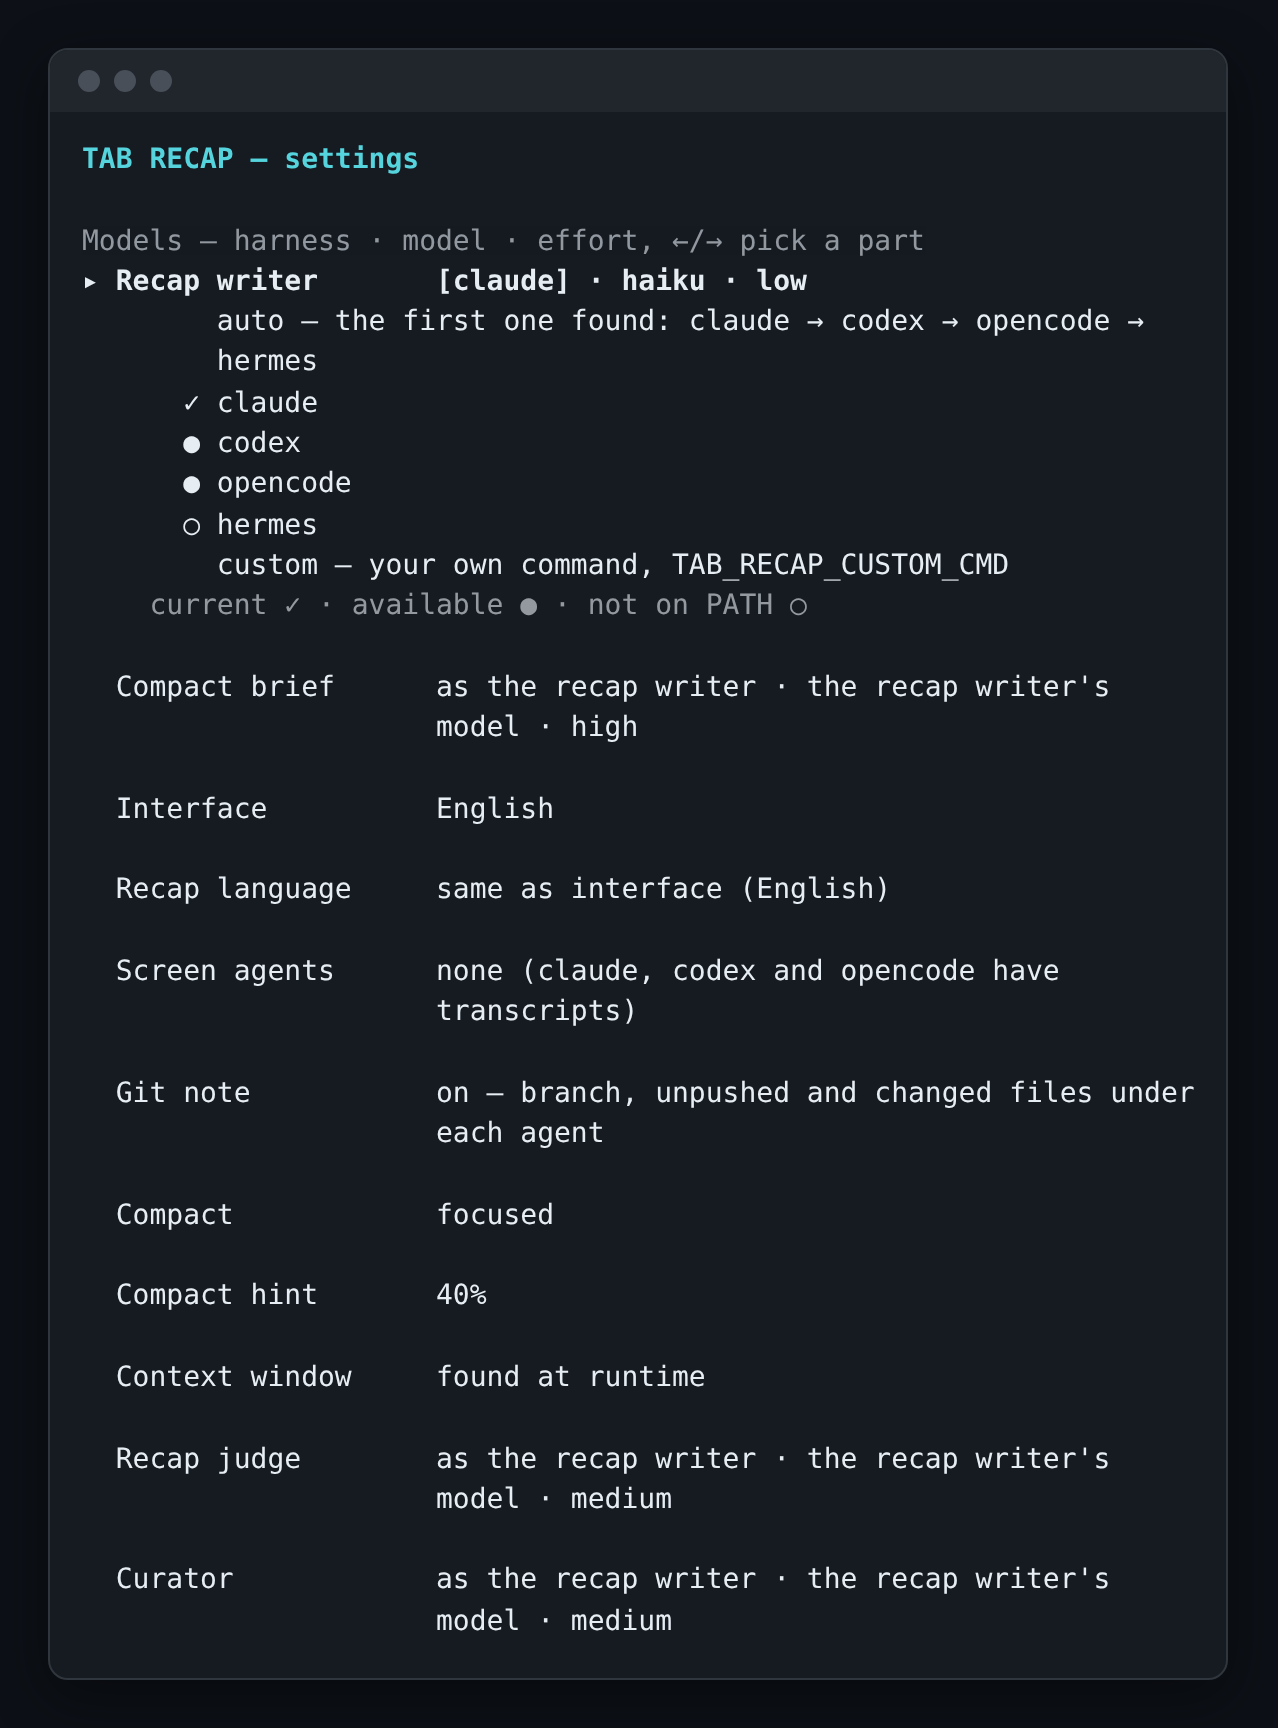
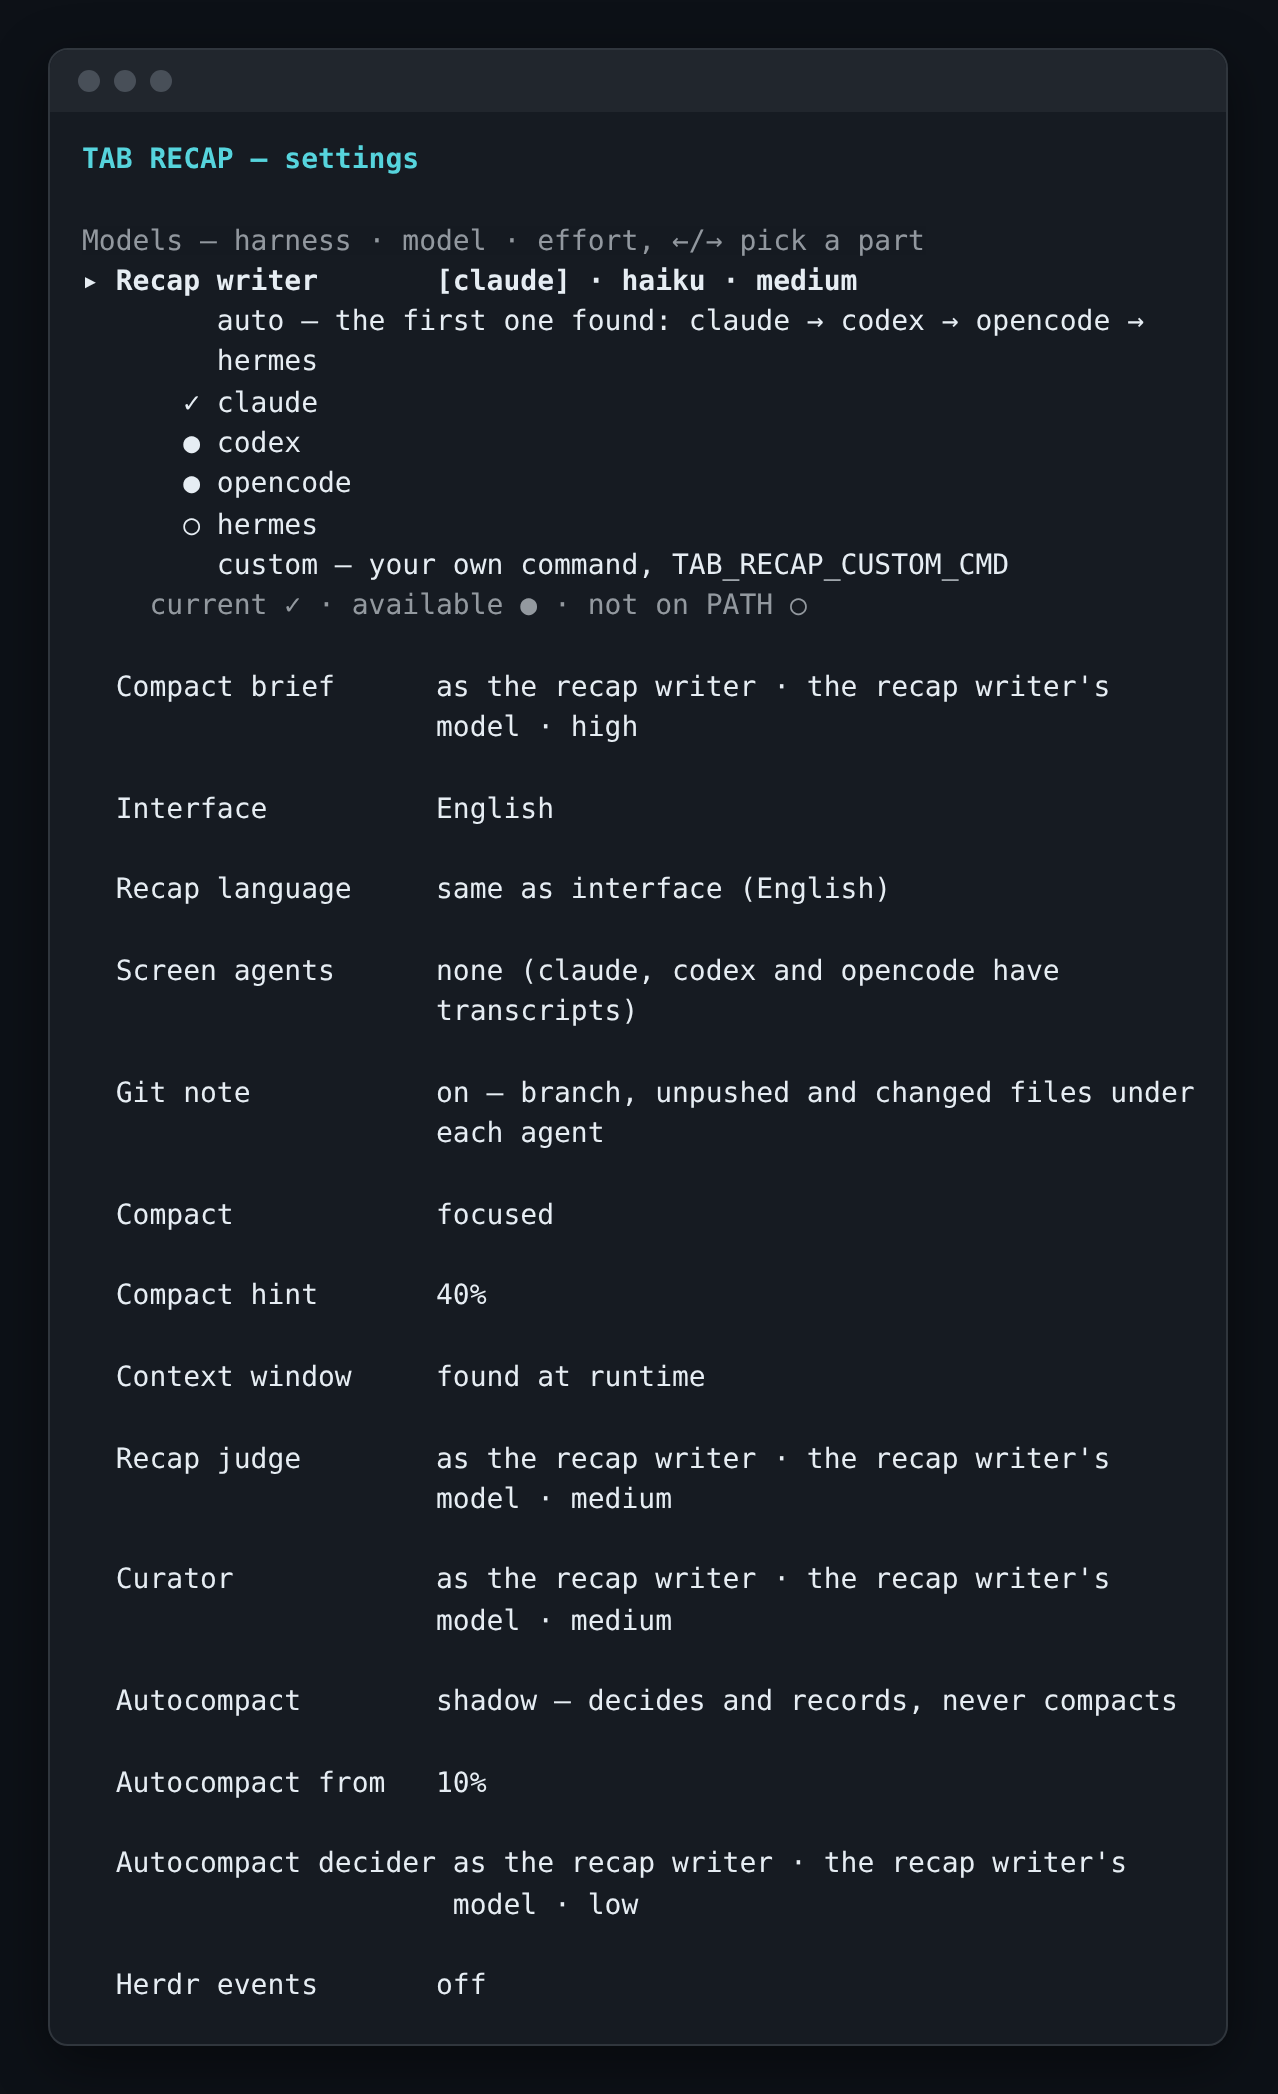
tab-recap: document the herdr token limits and race; refresh the setup screenshots
The For other tools section states the id and tool limits, the failed-bad-id answer, the lease's race limit and fail-open, and what turning the setting off clears. The spec puts lane-closed on the workspace. The setup screenshots show the Herdr events row.

diff --git a/tab-recap/CONTEXT.md b/tab-recap/CONTEXT.md
@@ -79,7 +79,7 @@ identifier, so a new name either uses this vocabulary or adds to it here first.
 | **Origin** | Who started a compaction: `operator`, `auto` or `request` (another tool's `compact-req-<tool>`; `compaction.origin`). Shown as `(auto)` in the toast. | the boundary's **trigger** |
 | **Setup modal** | The settings popup (`tab-recap.configure`): rows for the agent (harness or `auto`), its model, the interface language, the recap language and the agents read from their screen; `t` tests the selected agent with one tiny real request, `s` saves to `config.env`. A row an environment variable overrides is read-only and names the variable. Opening it while herdr shows another modal fails with `ui_busy`; the command then prints the CLI equivalent. | the recap modal (`show`) |
 | **Hidden** | A tab whose column the operator turned off (`tab-recap.column`, or `h` in the column). It is closed, not reopened, and never counts against the reopen budget; its recaps keep being written. `tab-recap.columns` hides every tab at once; showing one tab again under that blanket exempts it. Remembered in the store (`ColumnVisibility`) and restored at daemon start. | closed by the operator's mouse (that is *given up*) |
-| **Extension** | An optional add-on registered in `src/extensions/index.ts` (`FACTORIES`; the built-in git note is the only entry by default). It may contribute notes, a warning and upkeep; the plugin works with none. Built once when a process starts; it reads its own settings through the config getter at call time, so a value edit applies without a restart, but enabling or disabling one takes a restart. | a plugin; a backend |
+| **Extension** | An optional add-on registered in `src/extensions/index.ts` (`FACTORIES`; the built-in git note and the other tools' notes are the entries by default). It may contribute notes, a warning and upkeep; the plugin works with none. Built once when a process starts; it reads its own settings through the config getter at call time, so a value edit applies without a restart, but enabling or disabling one takes a restart. | a plugin; a backend |
 | **Note** | One labelled line-group an extension attaches to a lane; the column shows it under the lane's header (`⚑ label 2m ago · detail · detail`). It may carry its own **mark** (the glyph before the label, `⚑` when it names none). An extension's `notes()` may receive the tab's lanes and the locale. | a notification we send |
 | **Repo** | Which git repository (top-level directory) and branch a lane's working directory belongs to, asked from git by the `LaneRepo` port: a repo (the branch is null on a detached HEAD), no repo, or unknown. Read-only (no optional locks, no fsmonitor), answered asynchronously and cached for a few seconds per directory. | the lane's cwd itself |
 | **Web context** | Where a lane's repository lives on the web: the `origin` remote turned into `https://host/group/repo` (`git@host:g/r.git` and `ssh://git@host:2222/g/r.git` → https, `.git` dropped, **credentials never stored or drawn**), the forge (`github` for github.com, `gitlab` for any other host) and the lane's branch (null on a detached HEAD). Asked of git by the daemon only (`LaneRepo`, cached with the repo; the column never runs git), kept in the lane's row (migration 2) and published with the tab view as `TabLane.web` (null without an `origin`). A task has one web context when its lanes that know theirs agree on the repository; otherwise none, and only full URLs link. | the lane's cwd; a link |
@@ -92,6 +92,7 @@ identifier, so a new name either uses this vocabulary or adds to it here first.
 | **Token owner** | The one writer of a token name, and the writer's name is in it: `tab-recap-*` and `typing-tab-recap` are tab-recap's; `compact-req-<tool>`, `typing-<tool>`, `awaiting-<tool>` and `note-<tool>` belong to `<tool>`. herdr merges every source into one flat map per pane, so the name is the only protection: tab-recap never writes or clears a name it does not own. | a herdr `source` (herdr does not keep writers apart) |
 | **Compaction request** | A `compact-req-<tool>` token written by another tool on a lane's pane, valued `<id>` or `<id>:<note>`. tab-recap queues it with origin `request` and answers in `tab-recap-compact` = `<id>:<stage>` (`queued`, `running`, `done`, `failed-<reason>`, `failed-not-a-lane`); each id is acted on once. | a command; a typed line |
 | **Typing lease** | `typing-<tool>` = an epoch stamp, held by whoever types into a pane while it types (tab-recap's is `typing-tab-recap`, time to live 60 s). A lease that is earlier than tab-recap's, and still live, defers tab-recap's brief. | a lock on the pane; a process |
+| **Ask (another tool's)** | A compaction request from another tool, `compact-req-<tool>`, identified by its (tool, id). Kept in the `compact_ask` table (migration 13) so an id is acted on once, across restarts. | an operator's request (the `request` queue); the ask-back of a run |
 | **Note (from another tool)** | A `note` or `note-<tool>` token on a lane's pane, shown under the lane's header, labelled with the tool's name (or `note`). Read only: tab-recap never writes one. | a recap note; a fact |
 | **Protocol version** | `tab-recap-api` (`1`): the version of the pane tokens above. A breaking change to a token's name or value format raises it; a tool that finds no `tab-recap-api` on a pane reads it as “not offered”. | the plugin's version |
 | **Story** | The curator's "session so far" paragraph of a task (at most 120 words, shown at the top of the expanded view with its time): `task.story_text` and `task.story_at` (the time its curator run began), written in the same transaction as the curator's merges. | the recap; a section |

diff --git a/tab-recap/README.md b/tab-recap/README.md
@@ -492,16 +492,22 @@ off unless `TAB_RECAP_HERDR_EVENTS=on`; with it off, nothing below is written an
 | `tab-recap-recap` | epoch ms of the tab's last recap | when a recap is written |
 | `tab-recap-needs` | the number of open needs of the tab | when it changes |
 | `tab-recap-compact` | `<id>:<stage>`, the answer to a request | as the compaction goes |
-| `tab-recap-event` | `<seq>:<kind>[:<detail>]`, one event | for each event of the lane |
+| `tab-recap-event` | `<seq>:<kind>[:<detail>]`, one event | for each event of the lane (`lane-closed` goes to the workspace) |
 | `typing-tab-recap` | epoch ms of tab-recap's typing lease | while it types into the pane, whatever the setting |
 
 Lane tokens live two minutes and are rewritten when they change or half their life has passed; an answer or an event lives an hour;
-the lease lives a minute. A lane that leaves the board has its lane tokens cleared.
+the lease lives a minute. A lane that leaves the board has its lane tokens cleared. Turning the setting off clears `tab-recap-event` on
+every pane and workspace that carried one, and the lane tokens on every lane.
 
 **Requests another tool may write** on a lane's pane: `compact-req-<tool>` = `<id>` or `<id>:<note>` (the note is the focus of the
 brief, cut to fit). tab-recap answers in `tab-recap-compact`: `<id>:queued`, then `running`, then `done` or `failed-<reason>`;
 `failed-not-a-lane` when the pane is not a lane; `failed-interrupted` when a restart stopped it. Each id is acted on once, also across
-restarts: the same id written again asks for nothing.
+restarts: the same id written again asks for nothing. A request seen while the setting is off is remembered and never acted on, even
+after it goes on. A request a restart interrupts while the setting is on is answered `failed-interrupted`; one interrupted while it is
+off is not answered.
+
+**Limits.** An id is 1 to 16 characters; `compact-req-<tool>` is at most 32 characters, so `<tool>` is at most 20. An empty id or a longer
+one is answered `failed-bad-id` with its first 16 characters. A note is plain text: control characters become spaces and it is cut to fit.
 
 **Coordination tokens another tool may write:** `typing-<tool>` = its epoch ms while it types into the pane (tab-recap waits for an
 earlier one); `awaiting` or `awaiting-<tool>` = what the pane waits for (autocompact counts the lane as in flight, and says why); and
@@ -511,8 +517,9 @@ earlier one); `awaiting` or `awaiting-<tool>` = what the pane waits for (autocom
 workspace. Kinds: `recap-written` (the trigger), `needs-raised` and `needs-cleared` (the count), `compact-queued`, `compact-running`,
 `compact-done` and `compact-failed` (the compaction's id, and the reason when failed), `autocompact-decided` (the verdict and the share,
 e.g. `compact-24`), `autocompact-skipped` (the gate, written only when it changes), `lane-closed`, and `daemon-started` and
-`daemon-stopping` (the version). `<seq>` is base 36, starts at the daemon's start and rises by one per pane or workspace: a gap is a
-missed event, and the state tokens are always the current truth.
+`daemon-stopping` (the version). `<seq>` is a whole number in base 36, starts at the daemon's start and rises by one per pane or
+workspace: a gap is a missed event, and the state tokens are always the current truth. A workspace created after the daemon started hears
+the daemon's start only at its next start or stop.
 
 **One writer per name.** A token name is written by one tool only, and the writer's name is part of it. herdr keeps one flat map per
 pane, merged from every source, so the last write of a name wins and a `null` removes it whoever wrote it. Never write a name that is
@@ -520,7 +527,11 @@ not yours.
 
 **The lease.** Before typing into a pane, write `typing-<tool>` = epoch ms with a time to live of a minute, then read the pane's
 tokens. An earlier live lease of another tool (or the same stamp with a smaller name) comes first: clear yours and wait. Clear yours
-when you have finished typing. A lease a crashed writer left expires by itself.
+when you have finished typing. A lease a crashed writer left expires by itself. The lease is held around the send only, not while the agent answers.
+
+**The lease is not a lock.** Its stamp is taken before the write, so a tool whose earlier stamp lands after tab-recap has read the pane can
+still overlap it. When herdr cannot take or read tokens (no such method, or unreachable), typing goes on without a lease, and the log says so once
+per outage.
 
 **The version.** `tab-recap-api` is the protocol version. A breaking change to a token's name or value format raises it.
 

diff --git a/openspec/changes/tab-recap-public-api/specs/tab-recap/lane-tokens/spec.md b/openspec/changes/tab-recap-public-api/specs/tab-recap/lane-tokens/spec.md
@@ -121,8 +121,9 @@ The column SHALL show every `note` or `note-<tool>` token on a lane's pane under
 ### Requirement: The plugin's own events are piped into herdr's event stream
 
 Every event the daemon logs about a lane SHALL also be written to that lane's pane as the token
-`tab-recap-event` = `<seq>:<kind>[:<detail>]`, so that every `pane.updated` subscriber receives it. Events
-about the daemon itself SHALL go to every workspace's metadata as the same token, through
+`tab-recap-event` = `<seq>:<kind>[:<detail>]`, so that every `pane.updated` subscriber receives it. The
+`lane-closed` event SHALL go to the lane's workspace instead, as the same token, since its pane is already gone.
+Events about the daemon itself SHALL go to every workspace's metadata as the same token, through
 `workspace.report_metadata`. `<seq>` SHALL rise by one per pane (or per workspace), so a subscriber can tell
 it missed an event; the whole value SHALL fit in 80 characters. The kinds SHALL be:
 
@@ -133,7 +134,7 @@ it missed an event; the whole value SHALL fit in 80 characters. The kinds SHALL 
 | `compact-queued`, `compact-running`, `compact-done`, `compact-failed` | the compaction id, and the reason when failed |
 | `autocompact-decided` | the verdict and the share (`compact-24`, `wait-61`) |
 | `autocompact-skipped` | the gate (`in-flight`, `cooldown`, `below-minimum`, …), written only when the gate changes |
-| `lane-closed` | none |
+| `lane-closed` | the pane that closed (written on the lane's workspace, not the pane) |
 | `daemon-started`, `daemon-stopping` | the version (workspace token) |
 
 The state tokens (`tab-recap-share`, `tab-recap-recap`, `tab-recap-needs`, `tab-recap-compact`) SHALL stay
